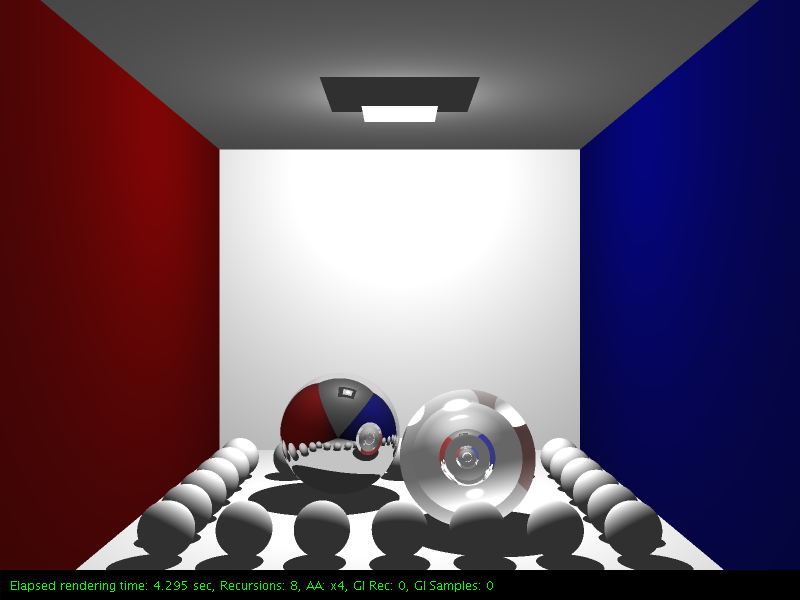
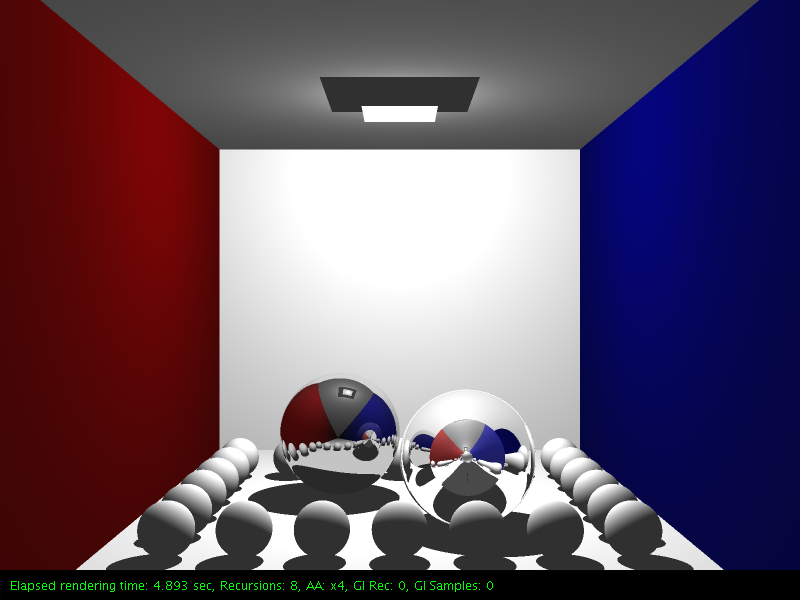
Little refactoring

Changed region(s): [[0.4375, 0.63, 0.6875, 0.87]]

diff --git a/VCG_Raytracer/src/raytracer/Intersection.java b/VCG_Raytracer/src/raytracer/Intersection.java
@@ -155,12 +155,10 @@ public class Intersection {
             rayIsEnteringMedium = false;
         }
 
-        float n = (rayIsEnteringMedium == true) ? calculateMaterialCoeff(n1, n2) : calculateMaterialCoeff(n2, n1);
+        float n = (rayIsEnteringMedium == true) ? this.calculateMaterialCoeff(n1, n2) : this.calculateMaterialCoeff(n2, n1);
         rayIsEnteringMedium = !rayIsEnteringMedium;
 
-        float squareCoeff = n * n;
-        float cosBeta = squareCoeff * (1 - normDotIn * normDotIn);
-        cosBeta = 1 - cosBeta;
+        float cosBeta = 1 - ( (n * n) * (1 - normDotIn * normDotIn));
 
         if(cosBeta > 0) {
             Vec3 bVec = mNormal.multScalar((float) Math.sqrt(cosBeta));
@@ -173,7 +171,7 @@ public class Intersection {
         // Total internal reflection
         else{
             //Log.error(this, "Total internal reflection");
-            return calculateReflectionRay(mInRay.getDirection());
+            return this.calculateReflectionRay(inRay);
         }
     }
 
